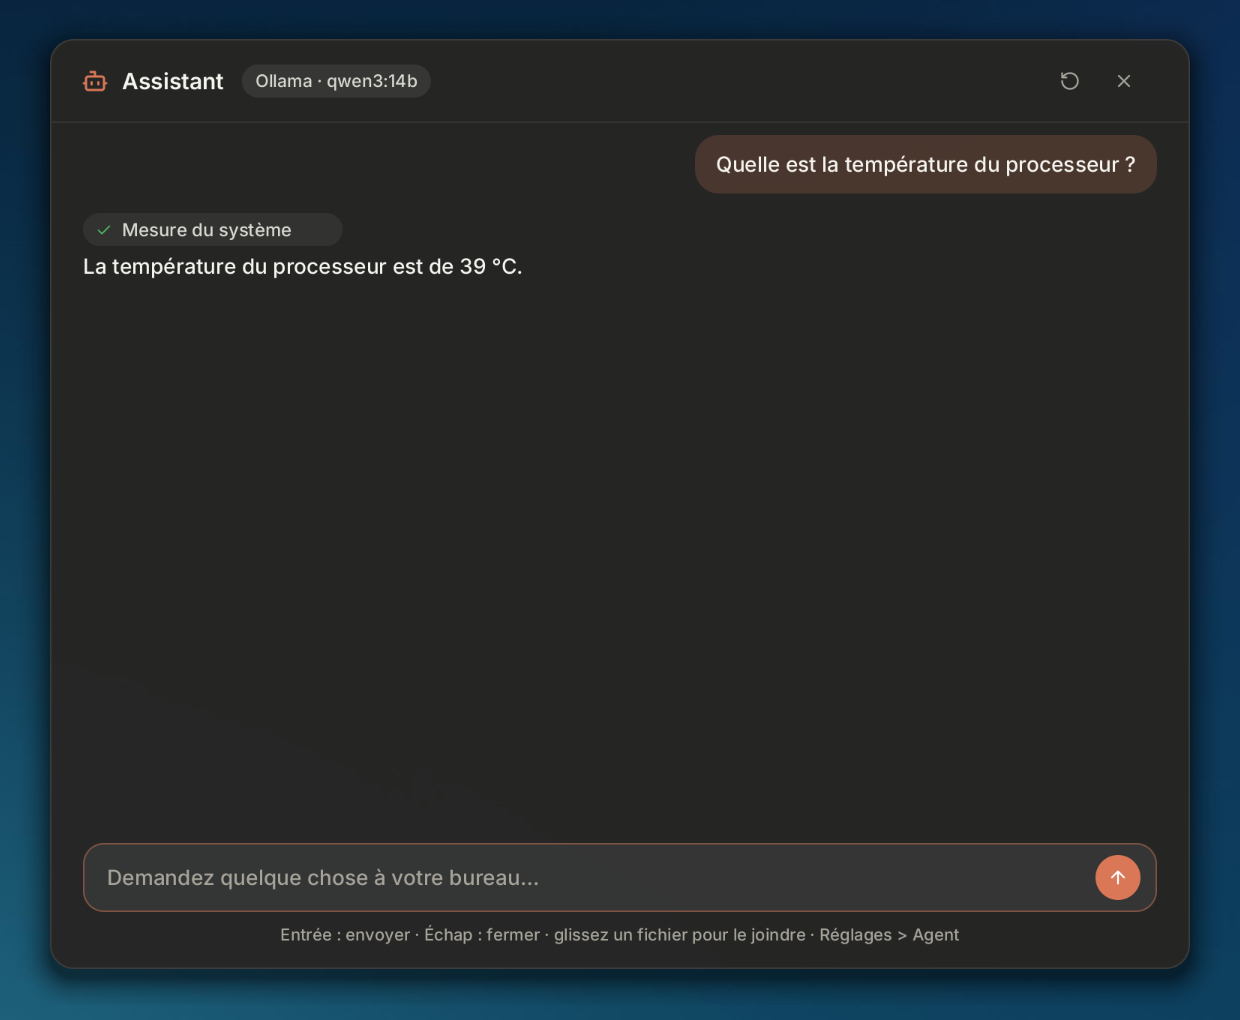
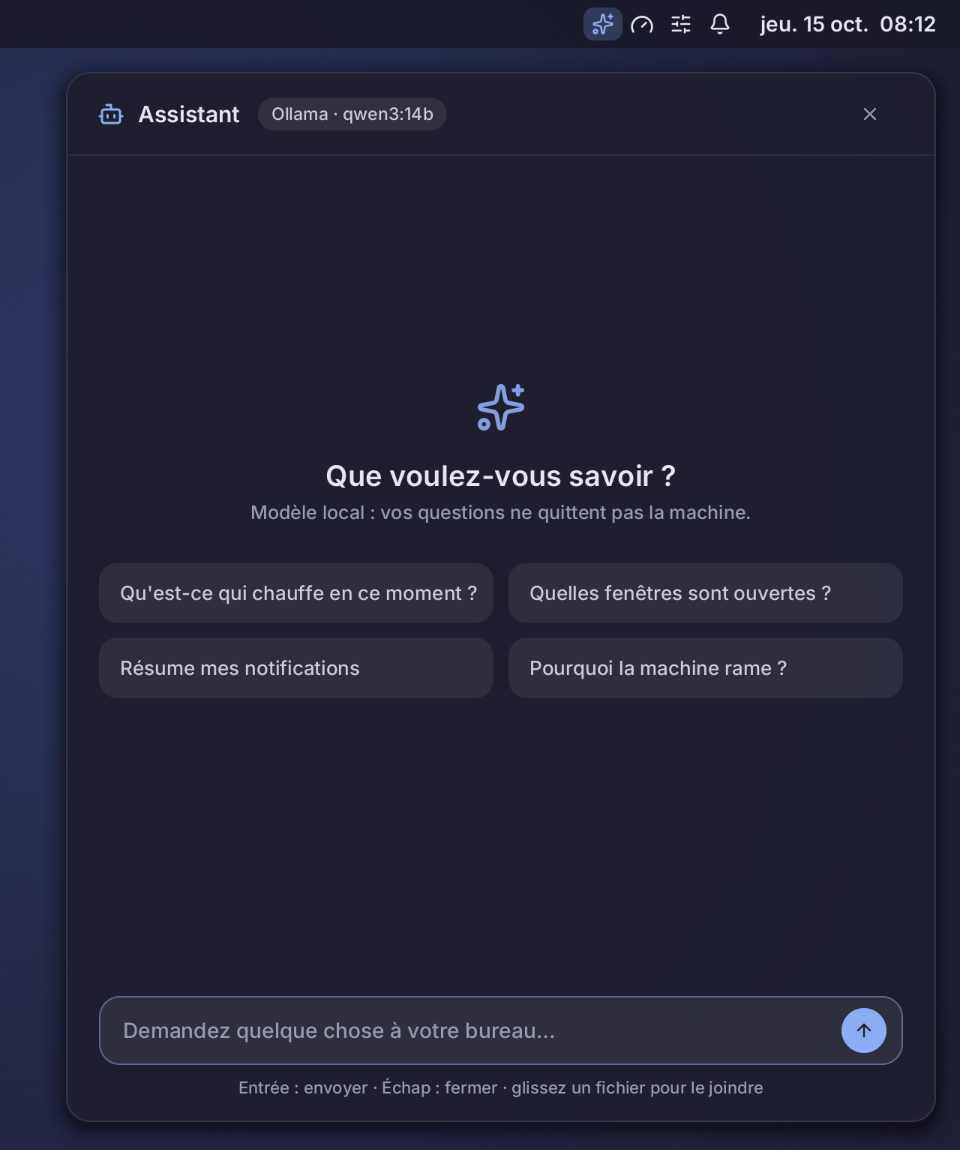
Assistant : icône dans la barre, panneau en haut à droite
L'Assistant s'ouvre et se ferme par son icône (étincelles) dans la
barre, à gauche du moniteur, en surbrillance tant qu'il est ouvert.
Son panneau se range en haut à droite sous la barre, comme le centre
de contrôle et le moniteur (580 × 700, mêmes marge et ombre).

La barre reconnaît les fichiers .pid propres à l'écran (Assistant,
Réglages) pour la surbrillance.

Claude-Session: https://claude.ai/code/session_01MrKJ5RoiFoHm7qLZhYo5pA

diff --git a/shell-bar/src/main.rs b/shell-bar/src/main.rs
@@ -1,6 +1,6 @@
 //! Barre du haut : surface layer-shell ancrée en haut de l'écran. À gauche le
 //! nom de la machine et les bureaux (clic pour y aller, molette pour passer au
-//! suivant). À droite : le moniteur système (jauge), le centre de contrôle
+//! suivant). À droite : l'Assistant, le moniteur système (jauge), le centre de contrôle
 //! (réseau, son, Bluetooth, Réglages…), la cloche des notifications, puis la
 //! date et l'heure (clic : centre de notifications). Avant eux, les icônes des
 //! applications (zone de notification StatusNotifierItem, menu au clic droit).
@@ -99,6 +99,7 @@ struct Bar {
     /// Zones cliquables de droite (début, fin) : icônes d'état et horloge
     status_zone: (f64, f64),
     monitor_zone: (f64, f64),
+    assistant_zone: (f64, f64),
     /// Compteurs du processeur à la mesure précédente (charge de l'icône du moniteur)
     cpu_prev: (u64, u64),
     bell_zone: (f64, f64),
@@ -167,6 +168,7 @@ fn main() {
         icons: Text::load(theme::FONT_ICONS).expect("police d'icônes"),
         status_zone: (0.0, 0.0),
         monitor_zone: (0.0, 0.0),
+        assistant_zone: (0.0, 0.0),
         cpu_prev: (0, 0),
         bell_zone: (0.0, 0.0),
         clock_zone: (0.0, 0.0),
@@ -286,7 +288,10 @@ fn panel_open(name: &str) -> bool {
     if name == "notifications" {
         return dir.join("odysseus-notifications.ouvert").exists();
     }
-    std::fs::read_to_string(dir.join(format!("odysseus-{name}.pid")))
+    // Fichier propre à l'écran (Assistant, Réglages), sinon commun
+    let display = std::env::var("WAYLAND_DISPLAY").unwrap_or_default();
+    std::fs::read_to_string(dir.join(format!("odysseus-{name}.{display}.pid")))
+        .or_else(|_| std::fs::read_to_string(dir.join(format!("odysseus-{name}.pid"))))
         .ok()
         .and_then(|p| p.trim().parse::<u32>().ok())
         .and_then(|pid| std::fs::read_to_string(format!("/proc/{pid}/stat")).ok())
@@ -426,6 +431,10 @@ impl Bar {
         let bell = x >= self.bell_zone.0 && x < self.bell_zone.1;
         if bell || (x >= self.clock_zone.0 && x < self.clock_zone.1) {
             spawn_sibling("odysseus-notify", &["--center"]);
+            return;
+        }
+        if x >= self.assistant_zone.0 && x < self.assistant_zone.1 {
+            spawn_sibling("odysseus-assistant", &[]);
             return;
         }
         if x >= self.monitor_zone.0 && x < self.monitor_zone.1 {
@@ -596,9 +605,18 @@ impl Bar {
             ((mx - step / 2.0) / sf) as f64,
             ((mx + step / 2.0) / sf) as f64,
         );
+        // Assistant (agent choisi dans Réglages > Agent)
+        let ax = mx - step;
+        let color = highlight(&mut canvas, ax, cy, sf, panel_open("assistant"));
+        self.icons
+            .icon(&mut canvas, icon::SPARKLES, ax, cy, icon_px, color);
+        self.assistant_zone = (
+            ((ax - step / 2.0) / sf) as f64,
+            ((ax + step / 2.0) / sf) as f64,
+        );
         // Témoin : un agent capture l'écran en ce moment (odysseus-mcp)
         if agent_watching() {
-            let ex = mx - step;
+            let ex = ax - step;
             let danger = theme::palette().danger;
             canvas.fill_rounded(
                 ex - 13.0 * sf,
@@ -615,7 +633,7 @@ impl Bar {
         self.status_zone = (((ix + step / 2.0) / sf) as f64, (right / sf) as f64);
 
         // Icônes des applications, à gauche des icônes du bureau
-        let mut tx = mx - step - if agent_watching() { step } else { 0.0 } - 6.0 * sf;
+        let mut tx = ax - step - if agent_watching() { step } else { 0.0 } - 6.0 * sf;
         let size = 16.0 * sf;
         self.tray_zones.clear();
         let menu_key = self.menu.as_ref().map(|m| m.key.clone());

diff --git a/assistant/src/main.rs b/assistant/src/main.rs
@@ -70,9 +70,9 @@ use smithay_client_toolkit::{
     shm::{Shm, ShmHandler, slot::SlotPool},
 };
 
-const MARGIN: f32 = 24.0;
-const PW: f32 = 760.0;
-const PH: f32 = 620.0;
+const MARGIN: f32 = 16.0;
+const PW: f32 = 580.0;
+const PH: f32 = 700.0;
 const HEADER_H: f32 = 56.0;
 const INPUT_H: f32 = 96.0;
 const PAD: f32 = 22.0;
@@ -223,8 +223,8 @@ fn main() {
         Some("odysseus-assistant"),
         None,
     );
-    layer.set_anchor(Anchor::TOP);
-    layer.set_margin(90, 0, 0, 0);
+    // En haut à droite, sous son icône de la barre, comme les autres panneaux
+    layer.set_anchor(Anchor::TOP | Anchor::RIGHT);
     layer.set_size(width, height);
     layer.set_keyboard_interactivity(KeyboardInteractivity::OnDemand);
     layer.commit();
@@ -571,7 +571,7 @@ impl App {
             Some((k, px)) if *k == key => c.buf.copy_from_slice(px),
             _ => {
                 c.clear();
-                c.shadow(x0 * s, (y0 + 6.0) * s, PW * s, PH * s, r, 28.0 * s, 0.5);
+                c.shadow(x0 * s, (y0 + 4.0) * s, PW * s, PH * s, r, 22.0 * s, 0.45);
                 c.fill_rounded(x0 * s, y0 * s, PW * s, PH * s, r, p.panel.with_alpha(0.97));
                 c.stroke_rounded(
                     x0 * s,
@@ -750,7 +750,7 @@ impl App {
         } else {
             ui.round_button(bx, by, icon::ARROW_UP, Hit::Send, true);
         }
-        let hint = "Entrée : envoyer · Échap : fermer · glissez un fichier pour le joindre · Réglages > Agent";
+        let hint = "Entrée : envoyer · Échap : fermer · glissez un fichier pour le joindre";
         ui.text_centered(hint, x0 + PW / 2.0, y + fh + 4.0, 22.0, 11.0, p.text_dim);
     }
 

diff --git a/README.md b/README.md
@@ -29,7 +29,7 @@ Bureau Wayland personnel en Rust : rapide, sobre.
 |---|---|
 | ![Fichiers](docs/captures/fichiers.png) | ![Lanceur](docs/captures/lanceur.png) |
 
-| Assistant (Super+A) : l'agent choisi, avec les outils du bureau |
+| Assistant (icône de la barre ou Super+A) : l'agent choisi, avec les outils du bureau |
 |---|
 | ![Assistant](docs/captures/assistant.png) |
 
@@ -60,12 +60,12 @@ la barre, l'icône du panneau ouvert est en surbrillance.*
 |---|---|---|
 | `common/` | Thème (couleurs, grille de 4 px, typographie) et dessin logiciel partagé (`draw`) | base |
 | `compositor/` | Compositeur Smithay : fenêtres arrondies + ombres, animations (ouverture, fermeture, glissement entre bureaux, trajets d'aimantation), aimantation des fenêtres, bureaux 1–9, coin actif (haut droit : notifications), glisser-déposer entre applications, presse-papiers accessible en ligne de commande (data-control), captures d'écran, lumière de nuit, IPC compatible sway, backends winit et DRM | fonctionne (imbriqué et sur tty) |
-| `shell-bar/` | Barre du haut : bureaux (clic, molette) ; à droite les icônes des applications (zone de notification StatusNotifierItem : la barre tient le registre, clic gauche pour l'action de l'application, clic droit pour son menu dbusmenu, clic du milieu pour l'action secondaire), puis moniteur (jauge colorée selon la charge), centre de contrôle, cloche des notifications (point : non vues), date et heure ; l'icône du panneau ouvert est en surbrillance | fonctionne sous sway et odysseus |
+| `shell-bar/` | Barre du haut : bureaux (clic, molette) ; à droite les icônes des applications (zone de notification StatusNotifierItem : la barre tient le registre, clic gauche pour l'action de l'application, clic droit pour son menu dbusmenu, clic du milieu pour l'action secondaire), puis Assistant, moniteur (jauge colorée selon la charge), centre de contrôle, cloche des notifications (point : non vues), date et heure ; l'icône du panneau ouvert est en surbrillance | fonctionne sous sway et odysseus |
 | `notify/` | `odysseus-notify` : notifications (D-Bus standard), bannières, centre de notifications avec calendrier (cloche, heure ou coin actif), « Ne pas déranger », indicateur de volume ; portail des réglages d'apparence (Firefox et GTK suivent le thème clair ou sombre) | fonctionne |
 | `control/` | `odysseus-control` : centre de contrôle ; `odysseus-raccourcis` : aide-mémoire des raccourcis ; (Wi-Fi via iwd, Bluetooth via BlueZ, Ethernet, lumière de nuit, son via PipeWire, accès aux Réglages, veille, verrouiller, redémarrer, éteindre) | fonctionne |
 | `settings/` | `odysseus-reglages` : Réglages — Apparence (thèmes), Fond d'écran (dégradés d'odysseus calculés en 4K, images de l'utilisateur, dépôt depuis Fichiers), Écran (définition avec confirmation et retour automatique, fréquence, taille, lumière de nuit : horaires et teinte), Clavier et langue (disposition, répétition, zone d'essai, langue du système via systemd-localed), Énergie (extinction, verrouillage, veille), Raccourcis, Agent (Claude Code et Ollama installés, mis à jour et connectés depuis la page, modèles téléchargés avec progression, autorisations d'odysseus-mcp, activité ; tout vient de `~/.config/odysseus/agent.json`, modifiable à la main), À propos | fonctionne |
 | `mcp/` | `odysseus-mcp` : le bureau exposé aux agents (Model Context Protocol) — état du système, écran, réglages, journaux, fenêtres, notifications, captures, actions (notifier, ouvrir, bureaux, thème, fond, lumière de nuit, échelle), presse-papiers ; chaque catégorie autorisée ou non dans Réglages > Agent, chaque appel consigné | fonctionne |
-| `assistant/` | `odysseus-assistant` : panneau de conversation avec l'agent choisi dans Réglages > Agent (Claude Code, Ollama ou commande personnalisée), qui passe par odysseus-mcp ; réponse en direct, outils appelés affichés, fichiers joints (glisser-déposer, Ctrl+V, depuis Fichiers), arrêt avec Échap ; ouvert par Super+A, « ? » dans le lanceur ou Fichiers > Demander à l'Assistant | fonctionne |
+| `assistant/` | `odysseus-assistant` : panneau de conversation avec l'agent choisi dans Réglages > Agent (Claude Code, Ollama ou commande personnalisée), qui passe par odysseus-mcp ; réponse en direct, outils appelés affichés, fichiers joints (glisser-déposer, Ctrl+V, depuis Fichiers), arrêt avec Échap ; panneau en haut à droite, ouvert par son icône de la barre, Super+A, « ? » dans le lanceur ou Fichiers > Demander à l'Assistant | fonctionne |
 | `lock/` | `odysseus-lock` : écran de verrouillage (ext-session-lock, PAM) | fonctionne |
 | `launcher/` | Lanceur façon Spotlight (Mod+Espace) ; « ? question » ou dernière ligne : demander à l'Assistant | fonctionne |
 | `sysmon/` | `odysseus-moniteur` : moniteur système (icône jauge de la barre, colorée selon la charge) — processeur (charge, cœurs, fréquence, température), mémoire, disques (place, débits), carte graphique AMD (charge, mémoire vidéo, température, consommation), réseau, processus les plus actifs (arrêt en deux clics) ; courbes sur 60 s | fonctionne |
@@ -93,7 +93,7 @@ la barre, l'icône du panneau ouvert est en surbrillance.*
 | Mod+k (ou Réglages > Raccourcis) | aide-mémoire des raccourcis |
 | touches Volume +/−, Muet | volume (avec indicateur) |
 | icônes d'applications de la barre | clic : action de l'application (souvent afficher ou masquer sa fenêtre) ; clic droit : son menu (↑ ↓, Entrée, Échap) |
-| icônes de la barre (de gauche à droite) | moniteur système, centre de contrôle (dont l'accès aux Réglages) |
+| icônes de la barre (de gauche à droite) | Assistant, moniteur système, centre de contrôle (dont l'accès aux Réglages) |
 | cloche de la barre, clic sur l'heure, ou souris dans le coin en haut à droite | centre de notifications (point sur la cloche : notifications non vues) |
 | Ctrl+Alt+F1…F12 | changer de tty |
 | Mod+Maj+e | quitter |
